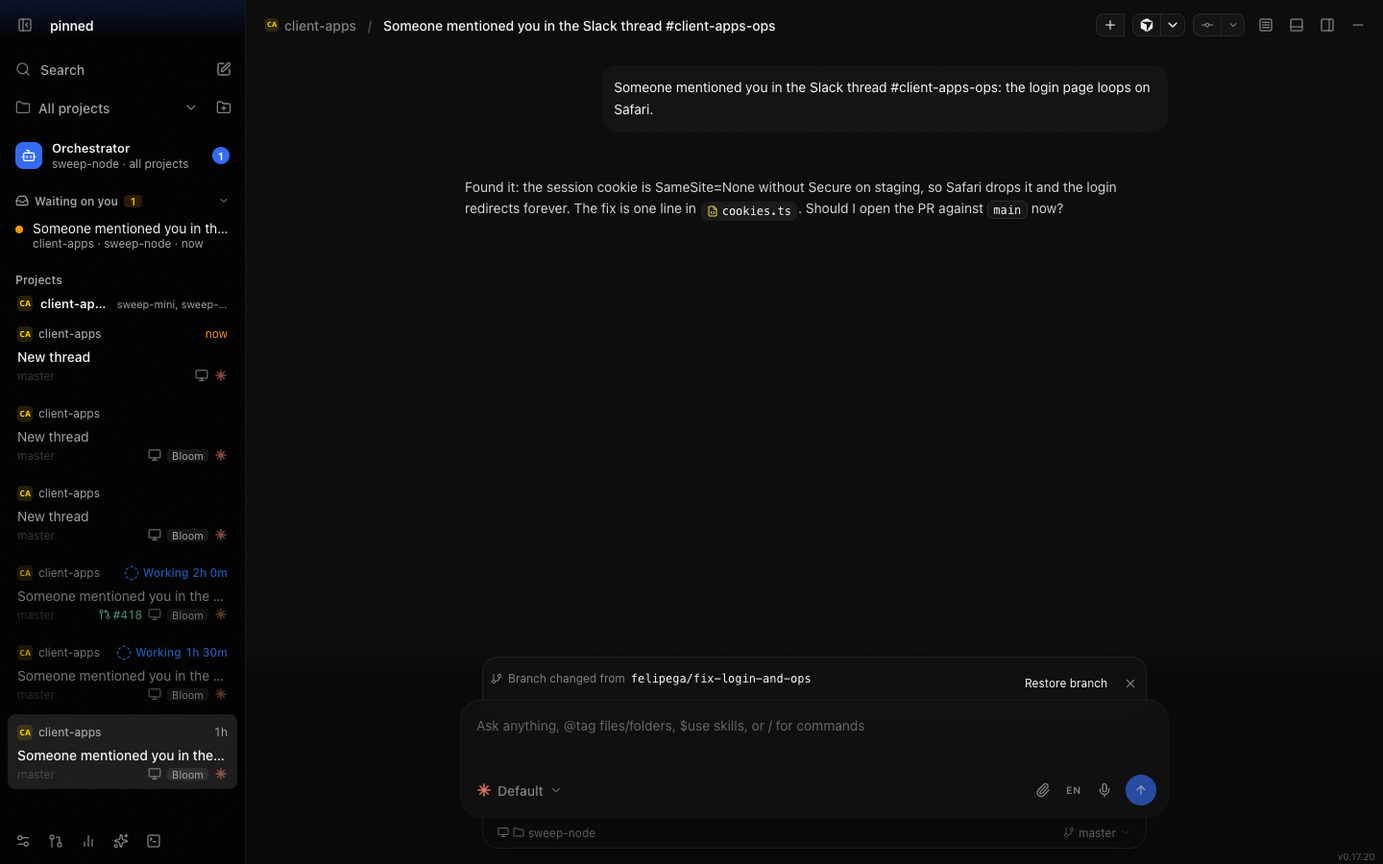
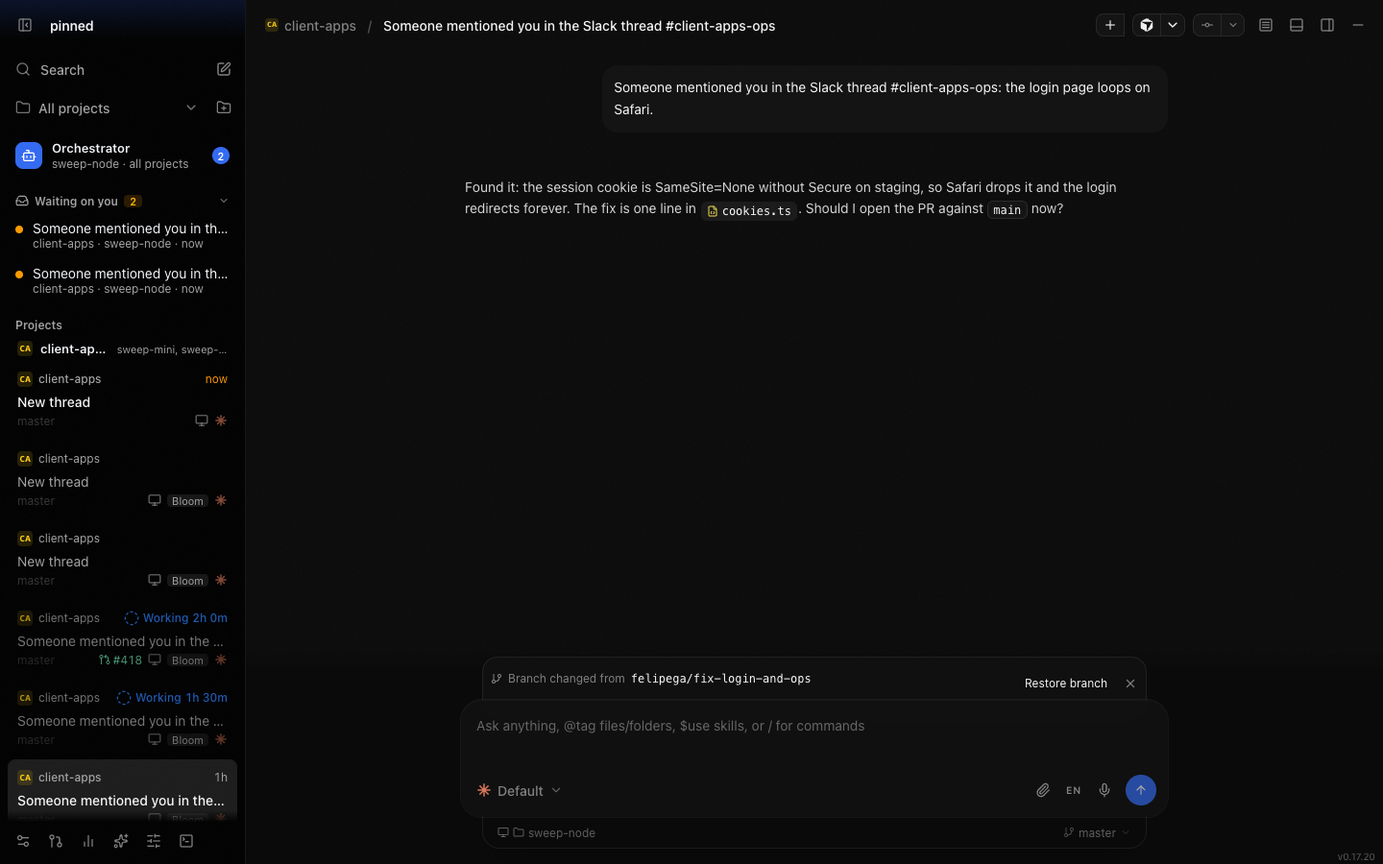
Build waiting from the session list with the shared waiting rule
A session's state now maps from global_orchestrator::waiting_kind, the rule
the sidebar's waitingKindOf shares through waiting_cases.json: needs_input is
waiting_on_input and failed is error. A loose thread whose last reply asked
the user is therefore waiting_on_input, and its message is the question.

overview() builds every session and, from the same Session of each tab, the
waiting list: the sessions waiting on input or in error. waiting() and
sessions() can no longer disagree, and an untitled restored thread waits
under its first prompt. The hub and local_overview just call overview().

The sidebar's Waiting on you already lists the same tabs by the same rule,
so it needed no change: the sweep shows the asked thread there beside the
one asking permission.

Changed region(s): [[0.0, 0.3111, 0.1875, 0.9644], [0.125, 0.56, 0.1562, 0.5911], [0.125, 0.4044, 0.1562, 0.4356]]

diff --git a/scripts/web-sweep/sessions.js b/scripts/web-sweep/sessions.js
@@ -195,7 +195,8 @@ function mcp(sock, tab, calls) {
   const settled = async () => {
     const [, , listed] = await mcp(devSock, global, [["sessions", { project: "client-apps" }]]);
     const sessions = JSON.parse(listed.result.content[0].text).sessions;
-    return sessions.length === 6 && sessions.some((s) => s.id === working && s.pr) && sessions.some((s) => s.id === old && s.branch) ? sessions : null;
+    const ready = sessions.some((s) => s.id === working && s.pr) && sessions.some((s) => s.id === old && s.branch) && sessions.some((s) => s.id === asked && s.state === "waiting_on_input");
+    return sessions.length === 6 && ready ? sessions : null;
   };
   await waitFor("every seeded session on the hub with its transcript read", settled, 30000);
   const answers = await mcp(devSock, global, [
@@ -212,18 +213,20 @@ function mcp(sock, tab, calls) {
   console.log(JSON.stringify(out, null, 2));
   check(sessions.sessions.length === 6, "six sessions in client-apps across both machines and accounts");
   check(oldRead.conversation.items.at(-1).text.startsWith("The Android build is green"), "read_session reaches the end of a transcript past 8 MiB");
+  check(waiting.some((w) => w.tab === asked) && waiting.some((w) => w.tab === permission), "waiting() holds the loose thread that asked and the one asking permission");
 
   // Waiting on you, desktop then phone.
   await page.evaluate(() => setMode("gui"));
-  await waitFor("Waiting on you", () => page.evaluate(() => !!document.querySelector(".waiting-head")));
+  await waitFor("both threads in Waiting on you", () => page.evaluate(() => document.querySelectorAll(".waiting-row").length >= 2));
   fs.mkdirSync(SCREENS, { recursive: true });
   await page.screenshot({ path: path.join(SCREENS, "sessions-desktop.png") });
   await page.setViewportSize({ width: 390, height: 844 });
   await page.evaluate(() => toggleSidebar(true));
   await page.waitForTimeout(500);
   await page.screenshot({ path: path.join(SCREENS, "sessions-phone.png") });
-  const rows = await page.evaluate(() => [...document.querySelectorAll(".waiting-row")].map((r) => r.textContent.trim()));
+  const rows = await page.evaluate(() => [...document.querySelectorAll(".waiting-row")].map((r) => r.getAttribute("aria-label")));
   console.log("waiting rows:", JSON.stringify(rows));
+  check(rows.length === 2, "Waiting on you lists both threads waiting on Felipe");
   check(!errors.length, `page errors: ${errors.join("; ")}`);
   await browser.close();
 })().catch((e) => {

diff --git a/crates/core/src/global_orchestrator.rs b/crates/core/src/global_orchestrator.rs
@@ -319,8 +319,8 @@ pub struct Overview {
     /// Every machine of the account, with or without projects.
     #[serde(default)]
     pub machines: Vec<OverviewMachine>,
-    /// Every session on the account's online machines, newest activity first. Absent from a hub
-    /// that predates the `sessions` tool.
+    /// Every session on the account's online machines, newest activity first; `waiting` is those
+    /// that wait on the user. Absent from a hub that predates the `sessions` tool.
     #[serde(default, skip_serializing_if = "Option::is_none")]
     pub sessions: Option<Vec<Session>>,
 }
@@ -488,6 +488,7 @@ pub fn captain_tab<'a>(tabs: &'a [TabView], path: &str) -> Option<&'a TabView> {
 pub fn overview(machines: &[MachineSnapshot]) -> Overview {
     let mut projects: Vec<OverviewProject> = vec![];
     let mut waiting = vec![];
+    let mut sessions = vec![];
     for machine in machines {
         let tabs = if machine.online { machine.tabs } else { &[] };
         for project in machine.projects {
@@ -509,26 +510,35 @@ pub fn overview(machines: &[MachineSnapshot]) -> Overview {
                 None => projects.push(OverviewProject { key, name: project.name.clone(), repo: project.repo.clone(), checkouts: vec![checkout] }),
             }
         }
-        for tab in tabs {
-            let Some(kind) = waiting_kind(tab) else { continue };
-            let folder = history::project_of(Path::new(&tab.cwd));
-            waiting.push(Waiting {
-                machine: machine.id.to_owned(),
-                machine_name: machine.name.to_owned(),
-                tab: tab.id.clone(),
-                kind,
-                project: machine.projects.iter().find(|p| Path::new(&p.path) == folder).map(|p| p.path.clone()),
-                title: tab.title.clone(),
-                message: tab.question.clone().or_else(|| tab.message.clone()),
-                since: tab.updated,
-            });
+        // What waits on the user is the sessions in those two states, so the two lists never differ.
+        for tab in tabs.iter().filter(|t| !t.orchestrator_global) {
+            let session = session(machine, tab);
+            let kind = match session.state {
+                SessionState::WaitingOnInput => Some(WaitingKind::NeedsInput),
+                SessionState::Error => Some(WaitingKind::Failed),
+                _ => None,
+            };
+            if let Some(kind) = kind {
+                waiting.push(Waiting {
+                    machine: session.machine.clone(),
+                    machine_name: session.machine_name.clone(),
+                    tab: session.id.clone(),
+                    kind,
+                    project: machine.projects.iter().any(|p| Path::new(&p.path) == Path::new(&session.project.path)).then(|| session.project.path.clone()),
+                    title: session.title.clone(),
+                    message: session.message.clone(),
+                    since: tab.updated,
+                });
+            }
+            sessions.push(session);
         }
     }
+    sessions.sort_by_key(|s| std::cmp::Reverse(s.last_activity));
     let machines = machines
         .iter()
         .map(|m| OverviewMachine { id: m.id.to_owned(), name: m.name.to_owned(), online: m.online, version: m.version.to_owned(), problem: m.problem.map(str::to_owned) })
         .collect();
-    Overview { projects, waiting, machines, sessions: None }
+    Overview { projects, waiting, machines, sessions: Some(sessions) }
 }
 
 /// One session of the account, as the global orchestrator's `sessions` tool lists it.
@@ -589,9 +599,10 @@ pub enum SessionState {
     Running,
     /// Its session runs and no turn is in progress: done, Claude Code's idle notice, or no status yet.
     Idle,
-    /// It asks the user mid-turn: a question or a permission prompt.
+    /// It waits on the user (`waiting_kind` is `needs_input`): a question or an approval mid-turn,
+    /// or a finished turn whose last reply asked the user something.
     WaitingOnInput,
-    /// It stopped on an error, a usage limit included.
+    /// It stopped on a failure, a usage limit included (`waiting_kind` is `failed`).
     Error,
     /// Its session is not running. A message starts it again.
     Settled,
@@ -599,13 +610,12 @@ pub enum SessionState {
 
 impl SessionState {
     pub fn of(tab: &TabView) -> SessionState {
-        match tab.status {
-            Some(AgentStatus::Failed) => SessionState::Error,
-            _ if !tab.running => SessionState::Settled,
-            Some(AgentStatus::NeedsInput) if tab.interrupted => SessionState::WaitingOnInput,
-            Some(AgentStatus::Working) => SessionState::Running,
-            _ if tab.orchestrator_turn => SessionState::Running,
-            _ => SessionState::Idle,
+        match waiting_kind(tab) {
+            Some(WaitingKind::Failed) => SessionState::Error,
+            Some(WaitingKind::NeedsInput) => SessionState::WaitingOnInput,
+            None if !tab.running => SessionState::Settled,
+            None if tab.status == Some(AgentStatus::Working) || tab.orchestrator_turn => SessionState::Running,
+            None => SessionState::Idle,
         }
     }
 }
@@ -620,14 +630,8 @@ impl Session {
     }
 }
 
-/// Every session on the online `machines`, newest activity first. The global orchestrator's own
-/// tab is left out, and an offline machine has none, since its tabs are not live.
-pub fn sessions(machines: &[MachineSnapshot]) -> Vec<Session> {
-    let mut sessions: Vec<Session> = machines.iter().filter(|m| m.online).flat_map(|machine| machine.tabs.iter().filter(|t| !t.orchestrator_global).map(move |tab| session(machine, tab))).collect();
-    sessions.sort_by_key(|s| std::cmp::Reverse(s.last_activity));
-    sessions
-}
-
+/// One tab as a session. `overview` lists one per tab of each online machine, the global
+/// orchestrator's own tab left out.
 fn session(machine: &MachineSnapshot, tab: &TabView) -> Session {
     let folder = history::project_of(Path::new(&tab.cwd));
     let listed = machine.projects.iter().find(|p| Path::new(&p.path) == folder);
@@ -655,7 +659,7 @@ fn session(machine: &MachineSnapshot, tab: &TabView) -> Session {
         title: tab.title.clone().or_else(|| tab.prompt_title.clone()),
         branch: tab.branch.clone(),
         pr: tab.pr.clone(),
-        message: tab.message.clone().filter(|_| matches!(state, SessionState::WaitingOnInput | SessionState::Error)),
+        message: tab.question.clone().or_else(|| tab.message.clone()).filter(|_| matches!(state, SessionState::WaitingOnInput | SessionState::Error)),
         state,
         last_activity: tab.last_message_at.or(tab.updated),
     }
@@ -816,7 +820,7 @@ mod tests {
             MachineSnapshot { id: "m-book", name: "MacBook", online: true, version: "0.17.18", projects: &book, tabs: &[], problem: Some("precisa atualizar o pinned") },
         ];
         assert_eq!(
-            serde_json::to_value(overview(&machines)).unwrap(),
+            serde_json::to_value(Overview { sessions: None, ..overview(&machines) }).unwrap(),
             serde_json::json!({
                 "projects": [{
                     "key": "github.com/o/site",
@@ -842,7 +846,7 @@ mod tests {
         let tabs = [view("tab-b-1", "/w/notes", Some(Role::Orchestrator), true, Some(AgentStatus::Done)), view("tab-b-2", "/w/site", None, true, Some(AgentStatus::Failed))];
         let machines = [MachineSnapshot { id: "m-1", name: "Linux box", online: false, version: "0.17.10", projects: &notes, tabs: &tabs, problem: None }];
         assert_eq!(
-            serde_json::to_value(overview(&machines)).unwrap(),
+            serde_json::to_value(Overview { sessions: None, ..overview(&machines) }).unwrap(),
             serde_json::json!({
                 "projects": [
                     { "key": "m-1:/w/notes", "name": "notes", "checkouts": [{ "machine": "m-1", "machine_name": "Linux box", "online": false, "version": "0.17.10", "path": "/w/notes", "captain": "nenhum", "workers": 0 }] },
@@ -864,7 +868,7 @@ mod tests {
         let tabs = [idle_notice, question, failed, own];
         let machines = [MachineSnapshot { id: "m-1", name: "MacBook", online: true, version: "0.17.19", projects: &site, tabs: &tabs, problem: None }];
         assert_eq!(
-            serde_json::to_value(overview(&machines)).unwrap(),
+            serde_json::to_value(Overview { sessions: None, ..overview(&machines) }).unwrap(),
             serde_json::json!({
                 "projects": [{ "key": "github.com/o/site", "name": "site", "repo": "github.com/o/site", "checkouts": [{ "machine": "m-1", "machine_name": "MacBook", "online": true, "version": "0.17.19", "path": "/w/site", "captain": "livre", "captain_tab": "tab-c-1", "workers": 1 }] }],
                 "waiting": [
@@ -919,7 +923,8 @@ mod tests {
         let lead = TabView { spawned_by: Some("tab-b-5".into()), ..view("tab-b-6", "/Users/f/client-apps/.claude/worktrees/pinned-1", Some(Role::Worker), true, Some(AgentStatus::Working)) };
         let sub = talk(TabView { spawned_by: Some("tab-b-6".into()), ..view("tab-b-7", "/Users/f/client-apps/.claude/worktrees/pinned-2", Some(Role::Worker), true, Some(AgentStatus::Done)) }, "pinned/sub", Some(92), 1794235000);
         let own = TabView { orchestrator_global: true, ..view("tab-b-8", "/Users/f/.pinned/orquestrador", None, true, Some(AgentStatus::Working)) };
-        let book = [slack, asking, new_thread, captain, lead, sub, own];
+        let asked = TabView { question: Some("Should I open the PR now?".into()), message: Some("Claude is waiting for your input".into()), ..on("bloom", talk(view("tab-b-9", "/Users/f/client-apps", None, true, Some(AgentStatus::NeedsInput)), "felipega/fix-and-ops", None, 1794241000)) };
+        let book = [slack, asking, new_thread, captain, lead, sub, own, asked];
         let old = TabView { prompt_title: Some("Someone mentioned you in the Slack thread".into()), message: Some("API Error: 500".into()), updated: Some(1793800000), ..view("tab-d-1", "/home/f/client-apps", None, false, Some(AgentStatus::Failed)) };
         let stopped = view("tab-d-2", "/home/f/scratch", None, false, Some(AgentStatus::Done));
         let dev = [old, stopped];
@@ -928,11 +933,13 @@ mod tests {
             MachineSnapshot { id: "m-dev", name: "dev", online: true, version: "0.17.20", projects: &[], tabs: &dev, problem: None },
             MachineSnapshot { id: "m-off", name: "Mac mini", online: false, version: "0.17.21", projects: &apps, tabs: &dev, problem: None },
         ];
-        let listed = sessions(&machines);
+        let overview = overview(&machines);
+        let listed = overview.sessions.clone().unwrap();
         let apps_on_book = serde_json::json!({ "key": "github.com/o/client-apps", "name": "client-apps", "path": "/Users/f/client-apps" });
         assert_eq!(
             serde_json::to_value(&listed).unwrap(),
             serde_json::json!([
+                { "id": "tab-b-9", "machine": "m-book", "machine_name": "MacBook", "account": "bloom", "project": apps_on_book, "role": "thread", "branch": "felipega/fix-and-ops", "state": "waiting_on_input", "message": "Should I open the PR now?", "last_activity": 1794241000 },
                 { "id": "tab-b-2", "machine": "m-book", "machine_name": "MacBook", "account": "bloom", "project": apps_on_book, "role": "thread", "title": "Someone mentioned you in the Slack thread", "branch": "felipega/fix-and-ops", "state": "idle", "last_activity": 1794240000 },
                 { "id": "tab-b-3", "machine": "m-book", "machine_name": "MacBook", "account": "bloom", "project": apps_on_book, "role": "thread", "state": "waiting_on_input", "message": "Claude needs your permission to use Bash", "last_activity": 1794239000 },
                 { "id": "tab-b-7", "machine": "m-book", "machine_name": "MacBook", "account": "claude", "project": apps_on_book, "role": "worker", "captain": "tab-b-5", "branch": "pinned/sub", "pr": { "number": 92, "url": "https://github.com/o/client-apps/pull/92" }, "state": "idle", "last_activity": 1794235000 },
@@ -944,10 +951,37 @@ mod tests {
             ])
         );
         let ids = |project: Option<&str>, machine: Option<&str>| listed.iter().filter(|s| s.matches(project, machine)).map(|s| s.id.as_str()).collect::<Vec<_>>();
-        assert_eq!(ids(Some("Client-Apps"), None), ["tab-b-2", "tab-b-3", "tab-b-7", "tab-b-5", "tab-d-1", "tab-b-4", "tab-b-6"], "a name matches the project on every machine");
-        assert_eq!(ids(Some("github.com/o/client-apps"), Some("@macbook")), ["tab-b-2", "tab-b-3", "tab-b-7", "tab-b-5", "tab-b-4", "tab-b-6"]);
+        assert_eq!(ids(Some("Client-Apps"), None), ["tab-b-9", "tab-b-2", "tab-b-3", "tab-b-7", "tab-b-5", "tab-d-1", "tab-b-4", "tab-b-6"], "a name matches the project on every machine");
+        assert_eq!(ids(Some("github.com/o/client-apps"), Some("@macbook")), ["tab-b-9", "tab-b-2", "tab-b-3", "tab-b-7", "tab-b-5", "tab-b-4", "tab-b-6"]);
         assert_eq!(ids(Some("m-dev:/home/f/client-apps"), None), ["tab-d-1"]);
         assert_eq!(ids(None, Some("m-dev")), ["tab-d-1", "tab-d-2"]);
+        let waiting: Vec<(&str, WaitingKind, Option<&str>)> = overview.waiting.iter().map(|w| (w.tab.as_str(), w.kind, w.message.as_deref())).collect();
+        assert_eq!(
+            waiting,
+            [
+                ("tab-b-3", WaitingKind::NeedsInput, Some("Claude needs your permission to use Bash")),
+                ("tab-b-9", WaitingKind::NeedsInput, Some("Should I open the PR now?")),
+                ("tab-d-1", WaitingKind::Failed, Some("API Error: 500")),
+            ],
+            "what waits is the sessions waiting on input or stopped on an error, a loose thread that asked included"
+        );
+        assert_eq!(overview.waiting[2].title.as_deref(), Some("Someone mentioned you in the Slack thread"), "a restored tab's first prompt names it");
+    }
+
+    #[test]
+    fn a_session_waits_on_input_or_is_in_error_exactly_when_it_waits_on_the_user() {
+        let cases: serde_json::Value = serde_json::from_str(include_str!("waiting_cases.json")).unwrap();
+        for case in cases["cases"].as_array().unwrap().iter().filter(|c| c["view"]["orchestrator_global"] != true) {
+            let mut view = cases["base"].clone();
+            view.as_object_mut().unwrap().extend(case["view"].as_object().unwrap().clone());
+            let state = SessionState::of(&serde_json::from_value(view).unwrap());
+            let expected = match case["waits"].as_str() {
+                Some("needs_input") => Some(SessionState::WaitingOnInput),
+                Some("failed") => Some(SessionState::Error),
+                _ => None,
+            };
+            assert_eq!(Some(state).filter(|s| matches!(s, SessionState::WaitingOnInput | SessionState::Error)), expected, "{}", case["case"]);
+        }
     }
 
     #[test]

diff --git a/crates/server/tests/hub.rs b/crates/server/tests/hub.rs
@@ -3839,7 +3839,7 @@ fn the_global_orchestrator_lists_every_session_of_every_machine_and_account_and_
     }
     transcript += &format!("{}\n", line("user", json!("what is running?"), "2026-11-09T12:00:00.000Z"));
     transcript += &format!("{}\n", json!({ "type": "pr-link", "prNumber": 92, "prUrl": "https://github.com/acme/client-apps/pull/92", "prRepository": "acme/client-apps", "timestamp": "2026-11-09T12:05:00.000Z" }));
-    transcript += &format!("{}\n", line("assistant", json!([{ "type": "text", "text": "Two Slack threads wait on you." }]), "2026-11-09T12:10:00.000Z"));
+    transcript += &format!("{}\n", line("assistant", json!([{ "type": "text", "text": "Two Slack threads wait on you. Should I answer them?" }]), "2026-11-09T12:10:00.000Z"));
     assert!(transcript.len() > 8 << 20);
     std::fs::write(transcripts.join("s-long.jsonl"), transcript).unwrap();
     hook(&fleet.mac_dir, json!({ "kind": "agent", "status": "done", "tab": long, "session": "s-long", "title": slack }));
@@ -3864,7 +3864,7 @@ fn the_global_orchestrator_lists_every_session_of_every_machine_and_account_and_
     wait_for("mac's tabs and the long transcript's tally on the hub", || {
         let listed = sessions(None);
         let list = listed["sessions"].as_array().unwrap();
-        list.len() == 7 && list.iter().any(|s| s["id"] == long && s["pr"]["number"] == 92) && list.iter().any(|s| s["id"] == worker)
+        list.len() == 7 && list.iter().any(|s| s["id"] == long && s["pr"]["number"] == 92 && s["state"] == "waiting_on_input") && list.iter().any(|s| s["id"] == worker)
     });
     let listed = sessions(Some("client-apps"));
     let list = listed["sessions"].as_array().unwrap().clone();
@@ -3886,7 +3886,7 @@ fn the_global_orchestrator_lists_every_session_of_every_machine_and_account_and_
     };
     let mut expected = vec![
         on_mac(&asking, "thread", "waiting_on_input", json!({ "title": slack, "message": "Claude needs your permission to use Bash" })),
-        on_mac(&long, "thread", "idle", json!({ "title": slack, "branch": "felipega/fix-and-ops", "pr": { "number": 92, "url": "https://github.com/acme/client-apps/pull/92" } })),
+        on_mac(&long, "thread", "waiting_on_input", json!({ "title": slack, "message": "Should I answer them?", "branch": "felipega/fix-and-ops", "pr": { "number": 92, "url": "https://github.com/acme/client-apps/pull/92" } })),
         on_mac(&new_thread, "thread", "idle", json!({})),
         on_mac(&captain, "captain", "running", json!({})),
         on_mac(&worker, "worker", "idle", json!({ "captain": captain, "title": "Lint the app." })),
@@ -3920,12 +3920,18 @@ fn the_global_orchestrator_lists_every_session_of_every_machine_and_account_and_
             "conversation": { "items": [
                 { "kind": "user", "at": "2026-11-09T12:00:00.000Z", "text": "what is running?" },
                 { "kind": "pr", "at": "2026-11-09T12:05:00.000Z", "url": "https://github.com/acme/client-apps/pull/92" },
-                { "kind": "text", "at": "2026-11-09T12:10:00.000Z", "text": "Two Slack threads wait on you." },
+                { "kind": "text", "at": "2026-11-09T12:10:00.000Z", "text": "Two Slack threads wait on you. Should I answer them?" },
             ], "cursor": read["conversation"]["cursor"], "reset": false },
             "id": long, "machine": mac, "machine_name": "mac",
         }),
         "a loose thread on another machine, read to the true end of a transcript past 8 MiB"
     );
+    let waiting = tool(json!({ "name": "waiting" })).unwrap();
+    let mut waits: Vec<(&str, &str, &str)> = waiting.as_array().unwrap().iter().map(|w| (w["tab"].as_str().unwrap(), w["kind"].as_str().unwrap(), w["message"].as_str().unwrap_or(""))).collect();
+    waits.sort();
+    let mut expected_waits = vec![(asking.as_str(), "needs_input", "Claude needs your permission to use Bash"), (long.as_str(), "needs_input", "Should I answer them?"), (failed.as_str(), "failed", "")];
+    expected_waits.sort();
+    assert_eq!(waits, expected_waits, "waiting() is the sessions waiting on input or in error, the loose thread whose last reply asked included");
     let here = tool(json!({ "name": "read_session", "id": failed })).unwrap();
     assert_eq!(here, json!({ "state": "failed", "next": "it may take a message now", "title": null, "conversation": { "items": [], "cursor": 0, "reset": false }, "id": failed, "machine": mini, "machine_name": "mini" }));
     assert_eq!(tool(json!({ "name": "read_session", "id": "tab-0-0" })), Err("no online machine of this account has a session tab-0-0".into()));

diff --git a/crates/server/src/relay.rs b/crates/server/src/relay.rs
@@ -112,8 +112,7 @@ async fn overview(hub: &Hub, account: &Account, from: Source<'_>) -> Result<Valu
         .zip(&seen)
         .map(|(m, (projects, tabs, problem))| MachineSnapshot { id: &m.id, name: &m.name, online: m.online, version: &m.version, projects, tabs, problem: problem.as_deref() })
         .collect();
-    let overview = global::Overview { sessions: Some(global::sessions(&snapshots)), ..global::overview(&snapshots) };
-    serde_json::to_value(overview).map_err(|e| e.to_string())
+    serde_json::to_value(global::overview(&snapshots)).map_err(|e| e.to_string())
 }
 
 /// What one online machine told the overview.

diff --git a/crates/core/src/machine.rs b/crates/core/src/machine.rs
@@ -2145,7 +2145,7 @@ impl Machine {
         let (projects, tabs) = (self.list_projects(), self.tabs());
         let (id, name) = self.machine_ids();
         let here = [global::MachineSnapshot { id: &id, name: &name, online: true, version: env!("CARGO_PKG_VERSION"), projects: &projects, tabs: &tabs, problem: None }];
-        global::Overview { sessions: Some(global::sessions(&here)), ..global::overview(&here) }
+        global::overview(&here)
     }
 
     /// This machine's id and name on the hub, each its hostname until the hub's hello.

diff --git a/docs/global-orchestrator/CONTRACTS.md b/docs/global-orchestrator/CONTRACTS.md
@@ -157,7 +157,7 @@ Tagged by `outcome`. Every variant carries the tab it went to.
   - `needs_input`: any status but working, when `TabView.question` is set (a finished turn that asked the user, before or after Claude Code's idle notice, and after a restart).
   - Nothing else. Needs-input with `interrupted` false and no question is the idle notice alone. The global orchestrator's own tab never waits.
 - `TabView.question` (`#[serde(default)]`, omitted when empty) is the last sentence outside code ending in `?` of the turn's last reply (`global_orchestrator::question_in`, at most 300 characters). The node sets it on Done and on restore, and clears it on Working and Failed. `Waiting.message` is the question when there is one, else the tab's message.
-- `sessions` (`#[serde(default)]`, an `Option`) is `global_orchestrator::sessions` of the same snapshots, which the hub and `local_overview` fill and `overview()` leaves `None`. A hub that predates it sends none, and the node then lists this machine's sessions alone. The `projects` tool drops it from its answer.
+- `sessions` (`#[serde(default)]`, an `Option`) is every session `overview()` builds from the same snapshots, and `waiting` is those whose state is `waiting_on_input` (kind `needs_input`) or `error` (kind `failed`), built from the same `Session` of each tab, so the two lists never disagree. A `Waiting` takes the session's title and message and the tab's `updated` as `since`. A hub that predates `sessions` sends none, and the node then lists this machine's sessions alone. The `projects` tool drops it from its answer.
 
 ### `Session`
 
@@ -177,15 +177,15 @@ Tagged by `outcome`. Every variant carries the tab it went to.
 - `role` is `captain` (`Role::Orchestrator`), `worker` (`Role::Worker`) or `thread`. `captain`, on a worker only, is the first Capitão up its `spawned_by` tabs, else its project's Capitão on that machine.
 - `title` is `TabView.title`, else `TabView.prompt_title`. A thread with no conversation yet has none.
 - `branch`, `pr` and `last_activity` come from the transcript tally the node already runs (`stats::Tally`), sent as `TabView.branch`, `TabView.pr` and `TabView.last_message_at`; `last_activity` falls back to `TabView.updated`. They are top-level `TabView` fields because the wire checker names an untagged struct inside `Option` by its keys, so a new `ThreadStats` field reads as a removed variant.
-- `message` is set only for `waiting_on_input` and `error`.
+- `message` is set only for `waiting_on_input` and `error`: `TabView.question` when there is one, else the tab's message.
 
-`SessionState::of(&TabView)`, in order:
+`SessionState::of(&TabView)`, in order. The first two are `waiting_kind`, so a session waits exactly when the sidebar's `waitingKindOf` says it does; `waiting_cases.json` holds the cases, and `a_session_waits_on_input_or_is_in_error_exactly_when_it_waits_on_the_user` checks them against the states:
 
 | State | From the tab |
 |---|---|
-| `error` | status failed, running or not |
+| `error` | `waiting_kind` is `failed`: status failed, running or not |
+| `waiting_on_input` | `waiting_kind` is `needs_input`: a question or an approval mid-turn, or a finished turn whose last reply asked the user (`TabView.question`), a loose thread included |
 | `settled` | its session is not running |
-| `waiting_on_input` | needs-input with `interrupted` (a question or a permission prompt mid-turn) |
 | `running` | status working, or `orchestrator_turn` |
 | `idle` | everything else that runs: done, the idle notice, no status yet |
 
@@ -286,7 +286,7 @@ All in `crates/core/src/machine.rs` unless noted. Every seam is built.
 | Seam | Signature | Built by | What it does |
 |---|---|---|---|
 | `projects_overview` | `fn projects_overview(&self) -> Result<global::Overview, String>` | node-local, remote-reach | The hub's `Overview` when linked. This machine alone (`local_overview`, under its hub id) while unlinked or when the hub is too old. |
-| `waiting` | `fn waiting(&self) -> Result<Vec<global::Waiting>, String>` | node-local | `projects_overview().waiting`, by `waiting_kind` (section 5). |
+| `waiting` | `fn waiting(&self) -> Result<Vec<global::Waiting>, String>` | node-local, sessions | `projects_overview().waiting`: the sessions waiting on input or in error (section 5). |
 | `read_captain` | `fn read_captain(&self, project: &str, machine: Option<&str>) -> Result<String, String>` | node-local, remote-reach | `reading::read` of the Capitão here, or `HubCall::ReadCaptain` to the machine `remote_checkout` finds. |
 | `route_remote` | `fn route_remote(&self, project: &str, machine: Option<&str>, text: &str, request_id: &str, sender: &str) -> Result<Handoff, String>` | hub-bridge, remote-reach | `HubCall::Relay { to: captain }` to the checkout `remote_checkout` finds, under this machine's busy policy. |
 | `remote_checkout` | `fn remote_checkout(&self, project: &str, machine: Option<&str>) -> Result<(MachineId, String), String>` | hub-bridge, remote-reach | Section 6 resolution, steps 2 and 3. |
